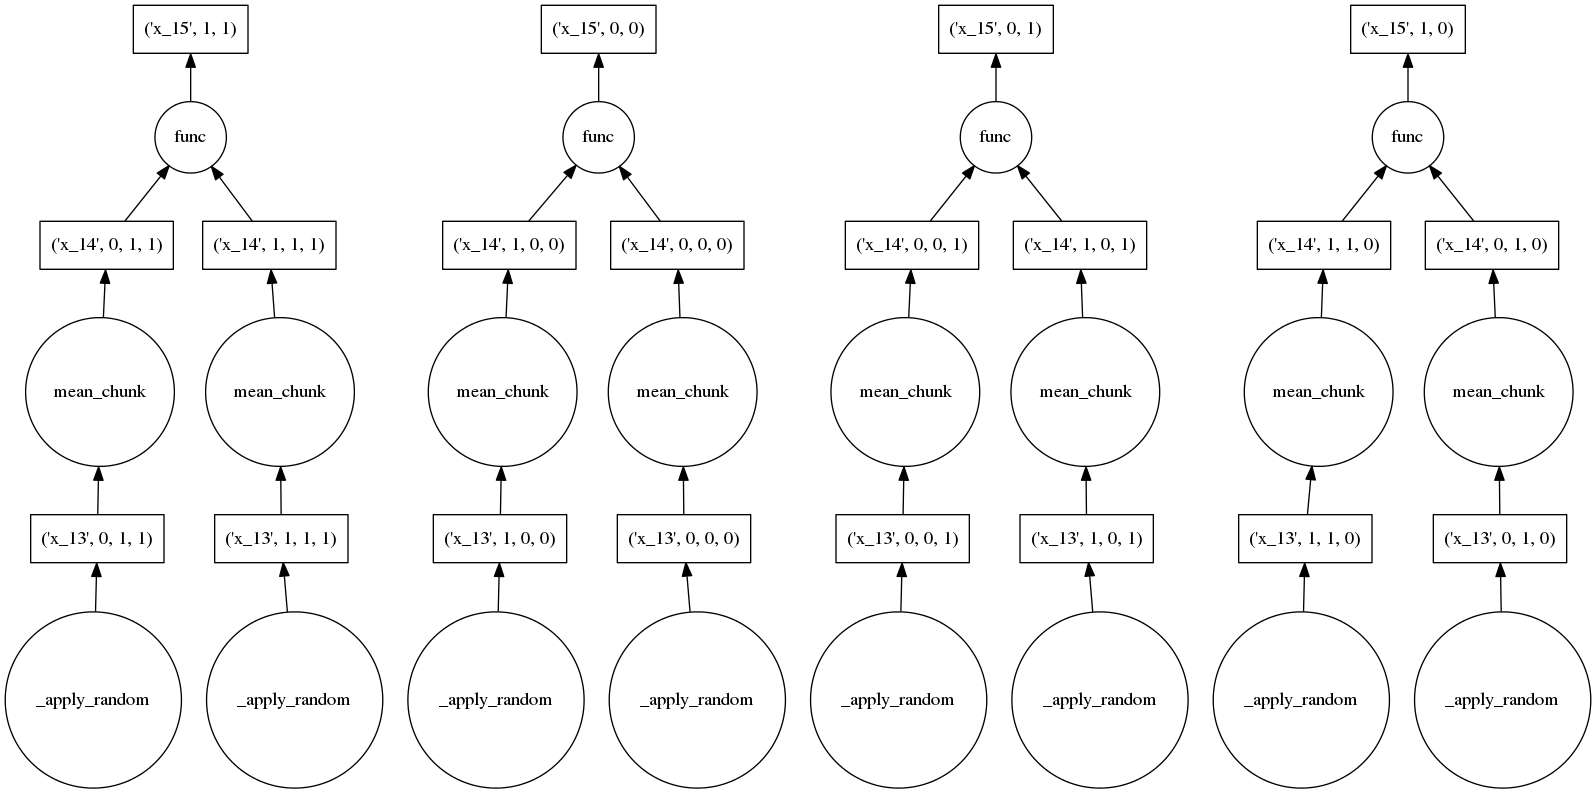
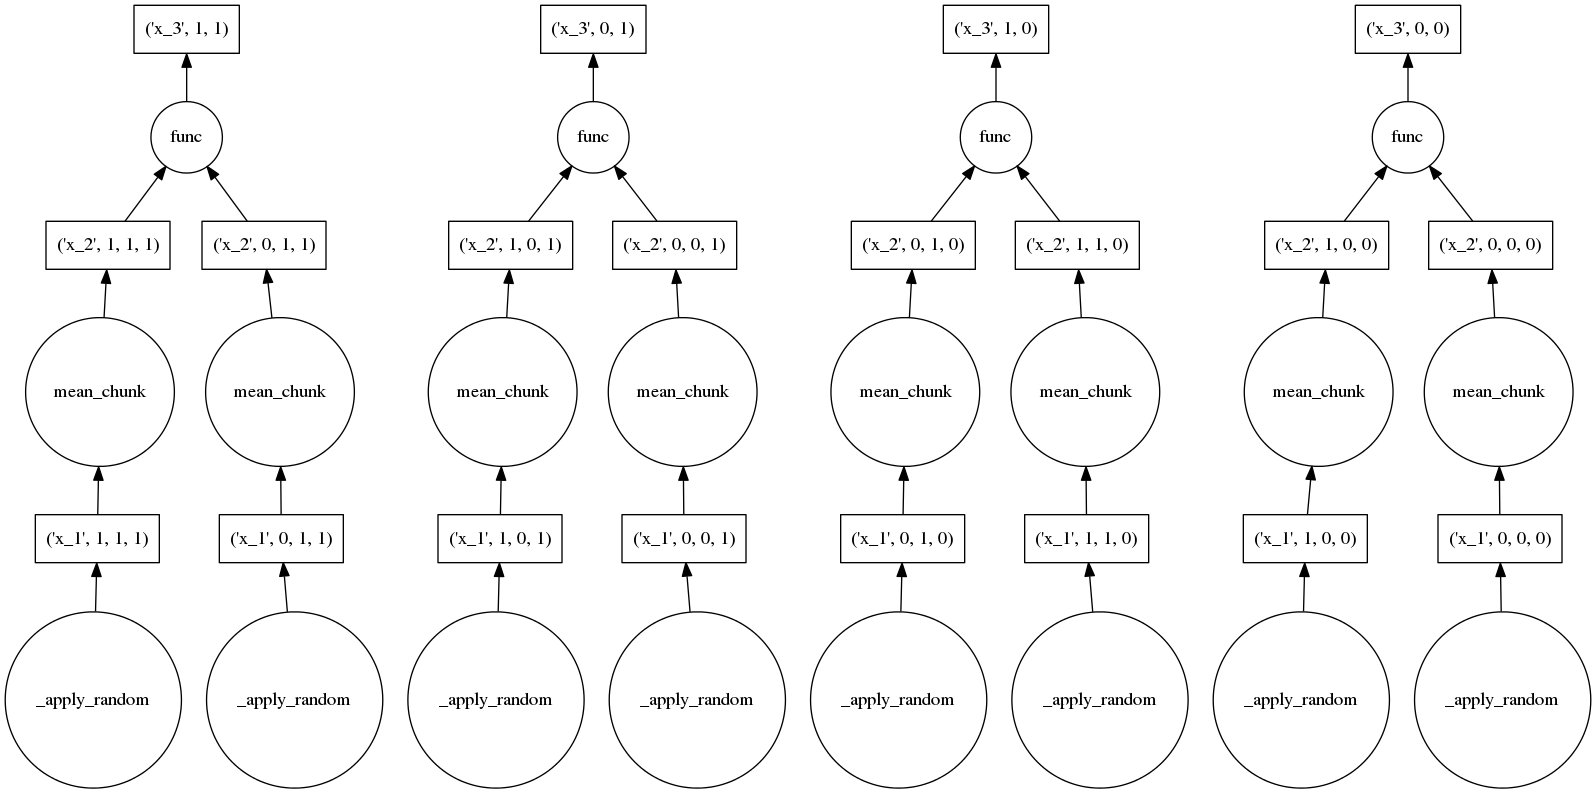
Ex2 compares dask and np

diff --git a/Dask/ex2_np.py b/Dask/ex2_np.py
@@ -1,0 +1,37 @@
+import dask.array as da
+import numpy as np
+import time
+
+def timeit(method):
+    def timed(*args, **kw):
+        ts = time.time()
+        result = method(*args, **kw)
+        te = time.time()
+        print 'Time: %2.6f sec' % (te-ts)
+        return result
+    return timed
+
+def task(arr):
+    #return arr.std(axis=1)
+    return arr.dot(arr)
+
+@timeit
+def task_np(arr):
+    return task(arr)
+
+@timeit
+def task_da(arr):
+    arr = task(arr)
+    return arr.compute()
+
+N = 80
+
+np_arr = np.random.random_sample(size=(N,N,N))
+
+da_arr = da.from_array(np_arr, chunks=(100, 100, 100))
+#da_arr = da.random.normal(73, 1, size=(N,N), chunks=(10000))
+
+print 30*'-', "Numpy", 30*'-'
+np_arr = task_np(np_arr)
+print 30*'-', "Dask", 30*'-'
+da_arr = task_da(da_arr)

diff --git a/Dask/ex1_arrays.py b/Dask/ex1_arrays.py
@@ -6,20 +6,30 @@ import matplotlib.pyplot as plt
 import matplotlib.image as mpimg
 import numpy as np
 from dask.dot import dot_graph
+# Timming:
+from profilehooks import profile
+
+@profile
+def dask_compute(dask_array):
+    res = dask_array.compute()
+    return res
 
 # Random 3D array (drop-in NumPy replacement)
-x = da.random.normal(10, 0.1, size=(50, 50, 50), chunks=(25, 25, 25))
-x.dask
+x = da.random.normal(10, 0.1, size=(100, 100, 100), chunks=(50, 50, 50))
+
+# print x.dask
 
 # Squash to 2D (DO not compute!)
 mean = x.mean(axis=0)
-mean.dask
+
+# print mean.dask
 
 # See the plot!
 dot_graph(mean.dask)
-res = mean.compute()
 
-print res.shape
+res = dask_compute(mean)
+
+# print res.shape
 
 plt.figure()
 image = mpimg.imread("mydask.png")
